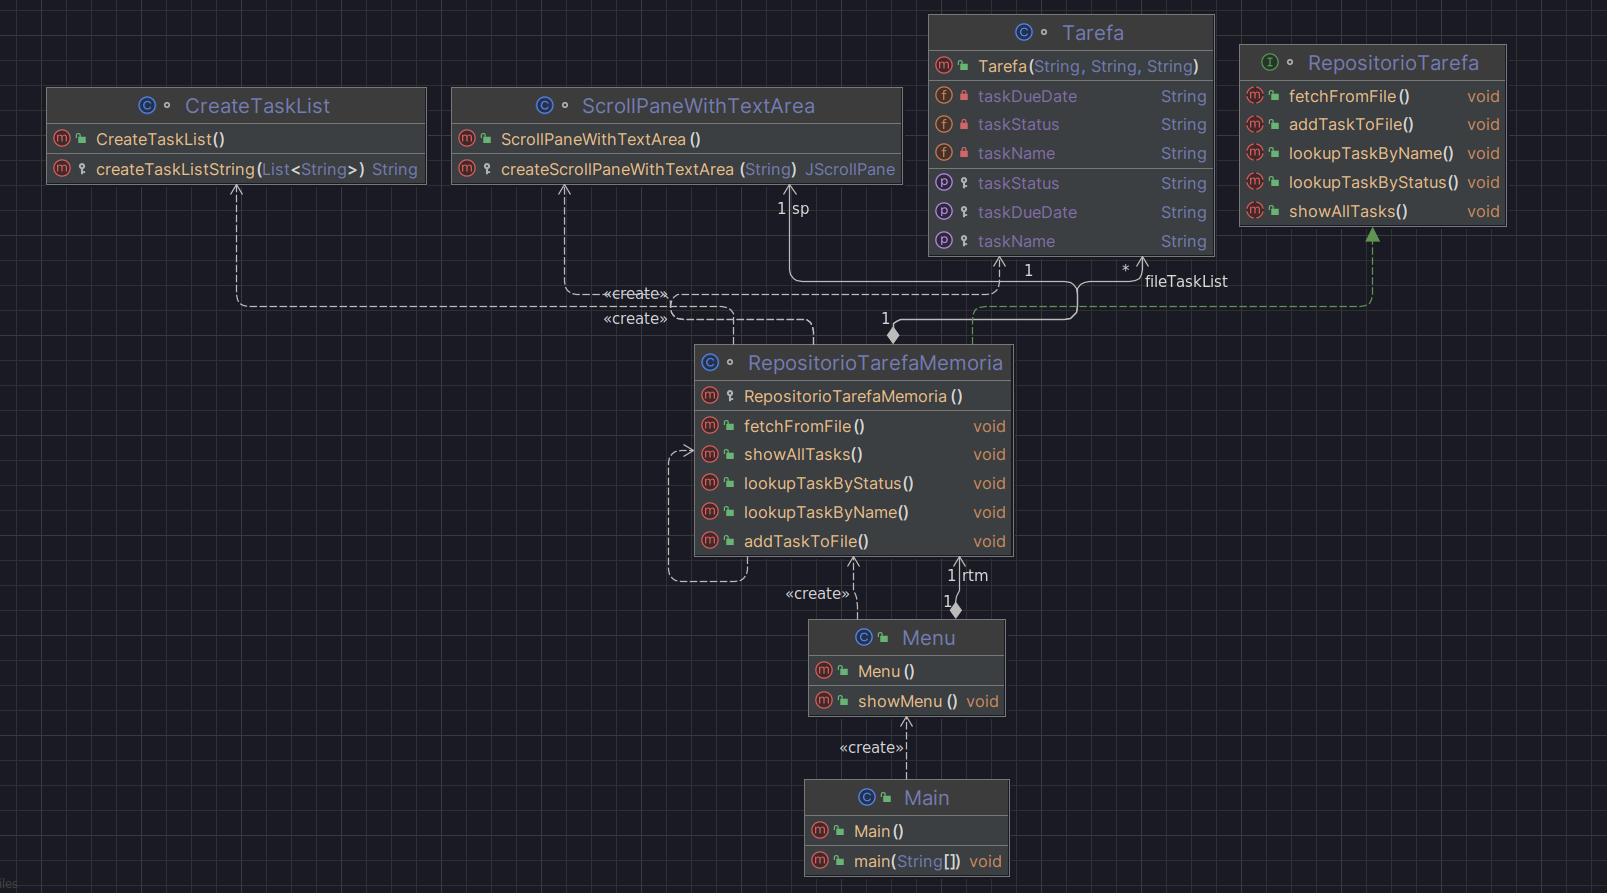
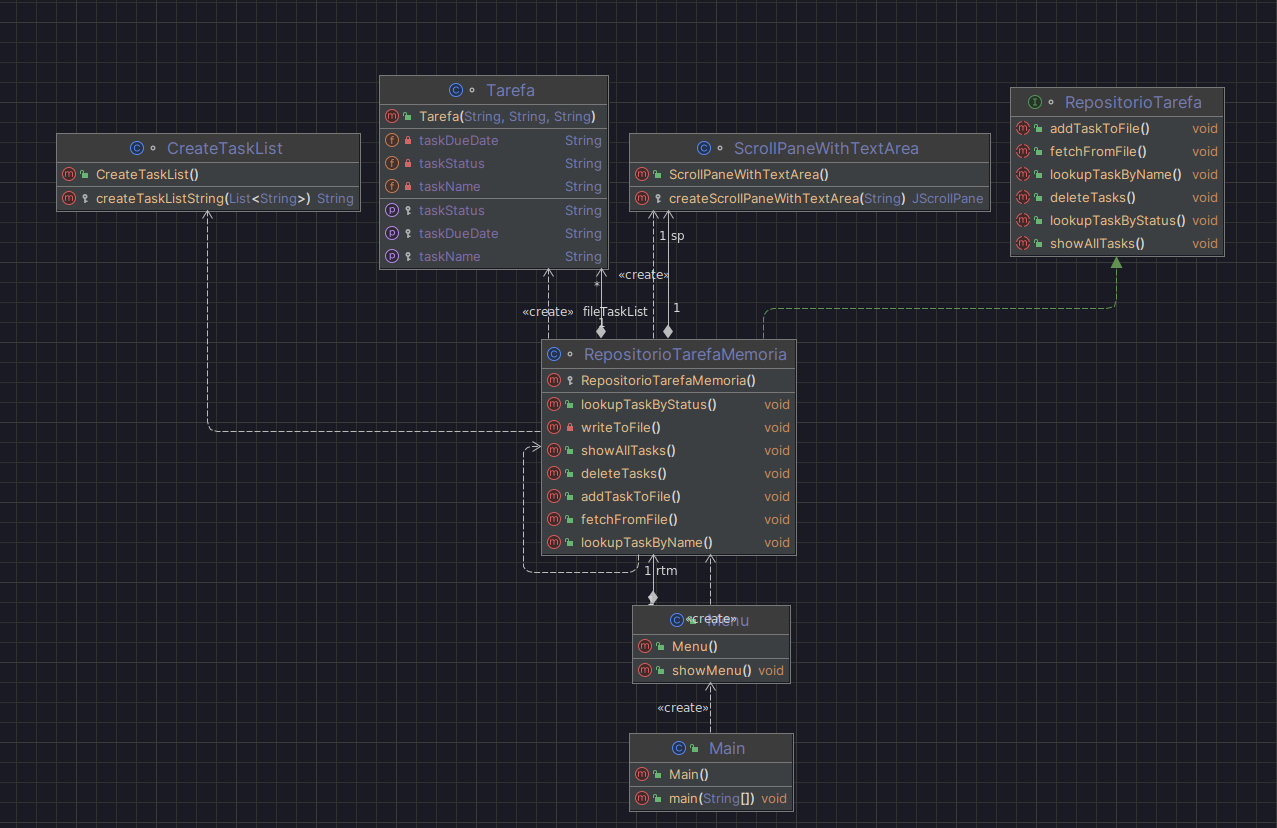
refactoring activity 2

Changed region(s): [[0.0, 0.0, 0.9773, 0.9964]]

diff --git a/Programação 2/labWeek8/atividade2/src/handlers/RepositorioTarefaMemoria.java b/Programação 2/labWeek8/atividade2/src/handlers/RepositorioTarefaMemoria.java
@@ -10,9 +10,9 @@ import java.util.Scanner;
 
 class RepositorioTarefaMemoria implements RepositorioTarefa {
 
-    ScrollPaneWithTextArea sp = new ScrollPaneWithTextArea();
     private final List<Tarefa> fileTaskList;
     private final String FILE_NAME = "taskManagerExport.txt";
+    ScrollPaneWithTextArea sp = new ScrollPaneWithTextArea();
 
     protected RepositorioTarefaMemoria() {
         fileTaskList = new ArrayList<>();
@@ -33,16 +33,7 @@ class RepositorioTarefaMemoria implements RepositorioTarefa {
         Tarefa taskToAdd = new Tarefa(taskNameToAdd, taskDueDateToAdd, taskStatusToAdd);
         fileTaskList.add(taskToAdd);
 
-        try (FileWriter writer = new FileWriter(FILE_NAME)) {
-            for (Tarefa tarefa : fileTaskList) {
-                String name = tarefa.getTaskName();
-                String dueDate = tarefa.getTaskDueDate();
-                String status = tarefa.getTaskStatus();
-                writer.write(name + ", " + dueDate + ", " + status + "\n");
-            }
-        } catch (IOException e) {
-            JOptionPane.showMessageDialog(null, "Error occurred while writing to file. " + e.getMessage(), "Error", JOptionPane.ERROR_MESSAGE);
-        }
+        writeToFile();
     }
 
     @Override
@@ -79,7 +70,7 @@ class RepositorioTarefaMemoria implements RepositorioTarefa {
         List<String> showTasks = new ArrayList<>();
 
         for (Tarefa tarefa : fileTaskList) {
-            showTasks.add(tarefa.getTaskName() + " / " + tarefa.getTaskDueDate() + " / " + tarefa.getTaskStatus());
+            showTasks.add(tarefa.getTaskName() + "\nDue Date: " + tarefa.getTaskDueDate() + "\nStatus: " + tarefa.getTaskStatus());
         }
 
         String showAllList = CreateTaskList.createTaskListString(showTasks);
@@ -96,10 +87,10 @@ class RepositorioTarefaMemoria implements RepositorioTarefa {
 
         for (Tarefa tarefa : fileTaskList) {
             if (tarefa.getTaskStatus().equals(userKey)) {
-                tasksFetchedFromStatus.add(tarefa.getTaskName() + " / " + tarefa.getTaskDueDate() + " / " + tarefa.getTaskStatus());
+                tasksFetchedFromStatus.add(tarefa.getTaskName() + "\nDue Date: " + tarefa.getTaskDueDate() + "\nStatus: " + tarefa.getTaskStatus());
             }
         }
-        
+
         String statusList = CreateTaskList.createTaskListString(tasksFetchedFromStatus);
 
         JScrollPane scrollPane = sp.createScrollPaneWithTextArea(statusList);
@@ -114,7 +105,7 @@ class RepositorioTarefaMemoria implements RepositorioTarefa {
 
         for (Tarefa tarefa : fileTaskList) {
             if (tarefa.getTaskName().equals(userKey)) {
-                tasksFetchedFromName.add(tarefa.getTaskName() + " / " + tarefa.getTaskDueDate() + " / " + tarefa.getTaskStatus());
+                tasksFetchedFromName.add(tarefa.getTaskName() + "\nDue Date: " + tarefa.getTaskDueDate() + "\nStatus: " + tarefa.getTaskStatus());
             }
         }
 
@@ -123,5 +114,51 @@ class RepositorioTarefaMemoria implements RepositorioTarefa {
         JScrollPane scrollPane = sp.createScrollPaneWithTextArea(nameList);
 
         JOptionPane.showMessageDialog(null, scrollPane, "Task found!", JOptionPane.INFORMATION_MESSAGE);
+
     }
+
+    @Override
+    public void deleteTasks() {
+        String userChoice = JOptionPane.showInputDialog("Do you want to delete based on name or status?").toLowerCase();
+
+        List<Tarefa> tasksToDelete = new ArrayList<>();
+        String userKey = "";
+
+        if (userChoice.equals("name")) {
+            userKey = JOptionPane.showInputDialog("Insert task name:").toLowerCase();
+        } else if (userChoice.equals("status")) {
+            userKey = JOptionPane.showInputDialog("Insert task status:\n[FINISHED/ONGOING]").toUpperCase();
+        }
+
+        for (Tarefa tarefa : fileTaskList) {
+            if (tarefa.getTaskName().equals(userKey) || tarefa.getTaskStatus().equals(userKey)) {
+                tasksToDelete.add(tarefa);
+            }
+        }
+
+        if (tasksToDelete.isEmpty()) {
+            JOptionPane.showMessageDialog(null, "No tasks found with the given name or status.", "Task Not Found", JOptionPane.INFORMATION_MESSAGE);
+            return;
+        }
+
+        fileTaskList.removeAll(tasksToDelete);
+
+        writeToFile();
+
+        JOptionPane.showMessageDialog(null, "Tasks deleted successfully.", "Tasks Deleted", JOptionPane.INFORMATION_MESSAGE);
+    }
+
+    private void writeToFile() {
+        try (FileWriter writer = new FileWriter(FILE_NAME)) {
+            for (Tarefa tarefa : fileTaskList) {
+                String name = tarefa.getTaskName();
+                String dueDate = tarefa.getTaskDueDate();
+                String status = tarefa.getTaskStatus();
+                writer.write(name + ", " + dueDate + ", " + status + "\n");
+            }
+        } catch (IOException e) {
+            JOptionPane.showMessageDialog(null, "Error occurred while writing to file. " + e.getMessage(), "Error", JOptionPane.ERROR_MESSAGE);
+        }
+    }
+
 }

diff --git a/Programação 2/labWeek8/atividade2/src/handlers/Menu.java b/Programação 2/labWeek8/atividade2/src/handlers/Menu.java
@@ -12,9 +12,10 @@ public class Menu {
                 2. Lookup tasks by STATUS
                 3. Lookup task by NAME
                 4. Add a new task
-                5. Exit""";
+                5. DELETE tasks by STATUS or NAME
+                6. Exit""";
 
-        while (userChoice != 5) {
+        while (userChoice != 6) {
             String optionChosen = JOptionPane.showInputDialog(null, menu + "\nChoose a option: ");
 
             try {
@@ -24,7 +25,8 @@ public class Menu {
                     case 2 -> rtm.lookupTaskByStatus();
                     case 3 -> rtm.lookupTaskByName();
                     case 4 -> rtm.addTaskToFile();
-                    case 5 -> JOptionPane.showMessageDialog(null, "Shutting down. Have a nice day!");
+                    case 5 -> rtm.deleteTasks();
+                    case 6 -> JOptionPane.showMessageDialog(null, "Shutting down. Have a nice day!");
                 }
             } catch (NumberFormatException e) {
                 JOptionPane.showMessageDialog(null, "Invalid Option. Double check your parameters!", "Error", JOptionPane.ERROR_MESSAGE);

diff --git a/Programação 2/labWeek8/atividade2/src/handlers/CreateTaskList.java b/Programação 2/labWeek8/atividade2/src/handlers/CreateTaskList.java
@@ -6,7 +6,7 @@ class CreateTaskList {
     protected static String createTaskListString(List<String> tasks) {
         StringBuilder sb = new StringBuilder();
         for (String task : tasks) {
-            sb.append("Tarefa: ").append(task).append("\n").append("\n");
+            sb.append("Tarefa: ").append(task).append("\n").append("-----------------------------").append("\n");
         }
         return sb.toString();
     }

diff --git a/Programação 2/labWeek8/atividade2/src/Main.java b/Programação 2/labWeek8/atividade2/src/Main.java
@@ -2,6 +2,7 @@ import handlers.Menu;
 
 public class Main {
     public static void main(String[] args) {
+
         Menu menu = new Menu();
         menu.showMenu();
     }

diff --git a/Programação 2/labWeek8/atividade2/src/handlers/RepositorioTarefa.java b/Programação 2/labWeek8/atividade2/src/handlers/RepositorioTarefa.java
@@ -11,4 +11,6 @@ abstract interface RepositorioTarefa {
     abstract void lookupTaskByName();
 
     abstract void showAllTasks();
+
+    abstract void deleteTasks();
 }
